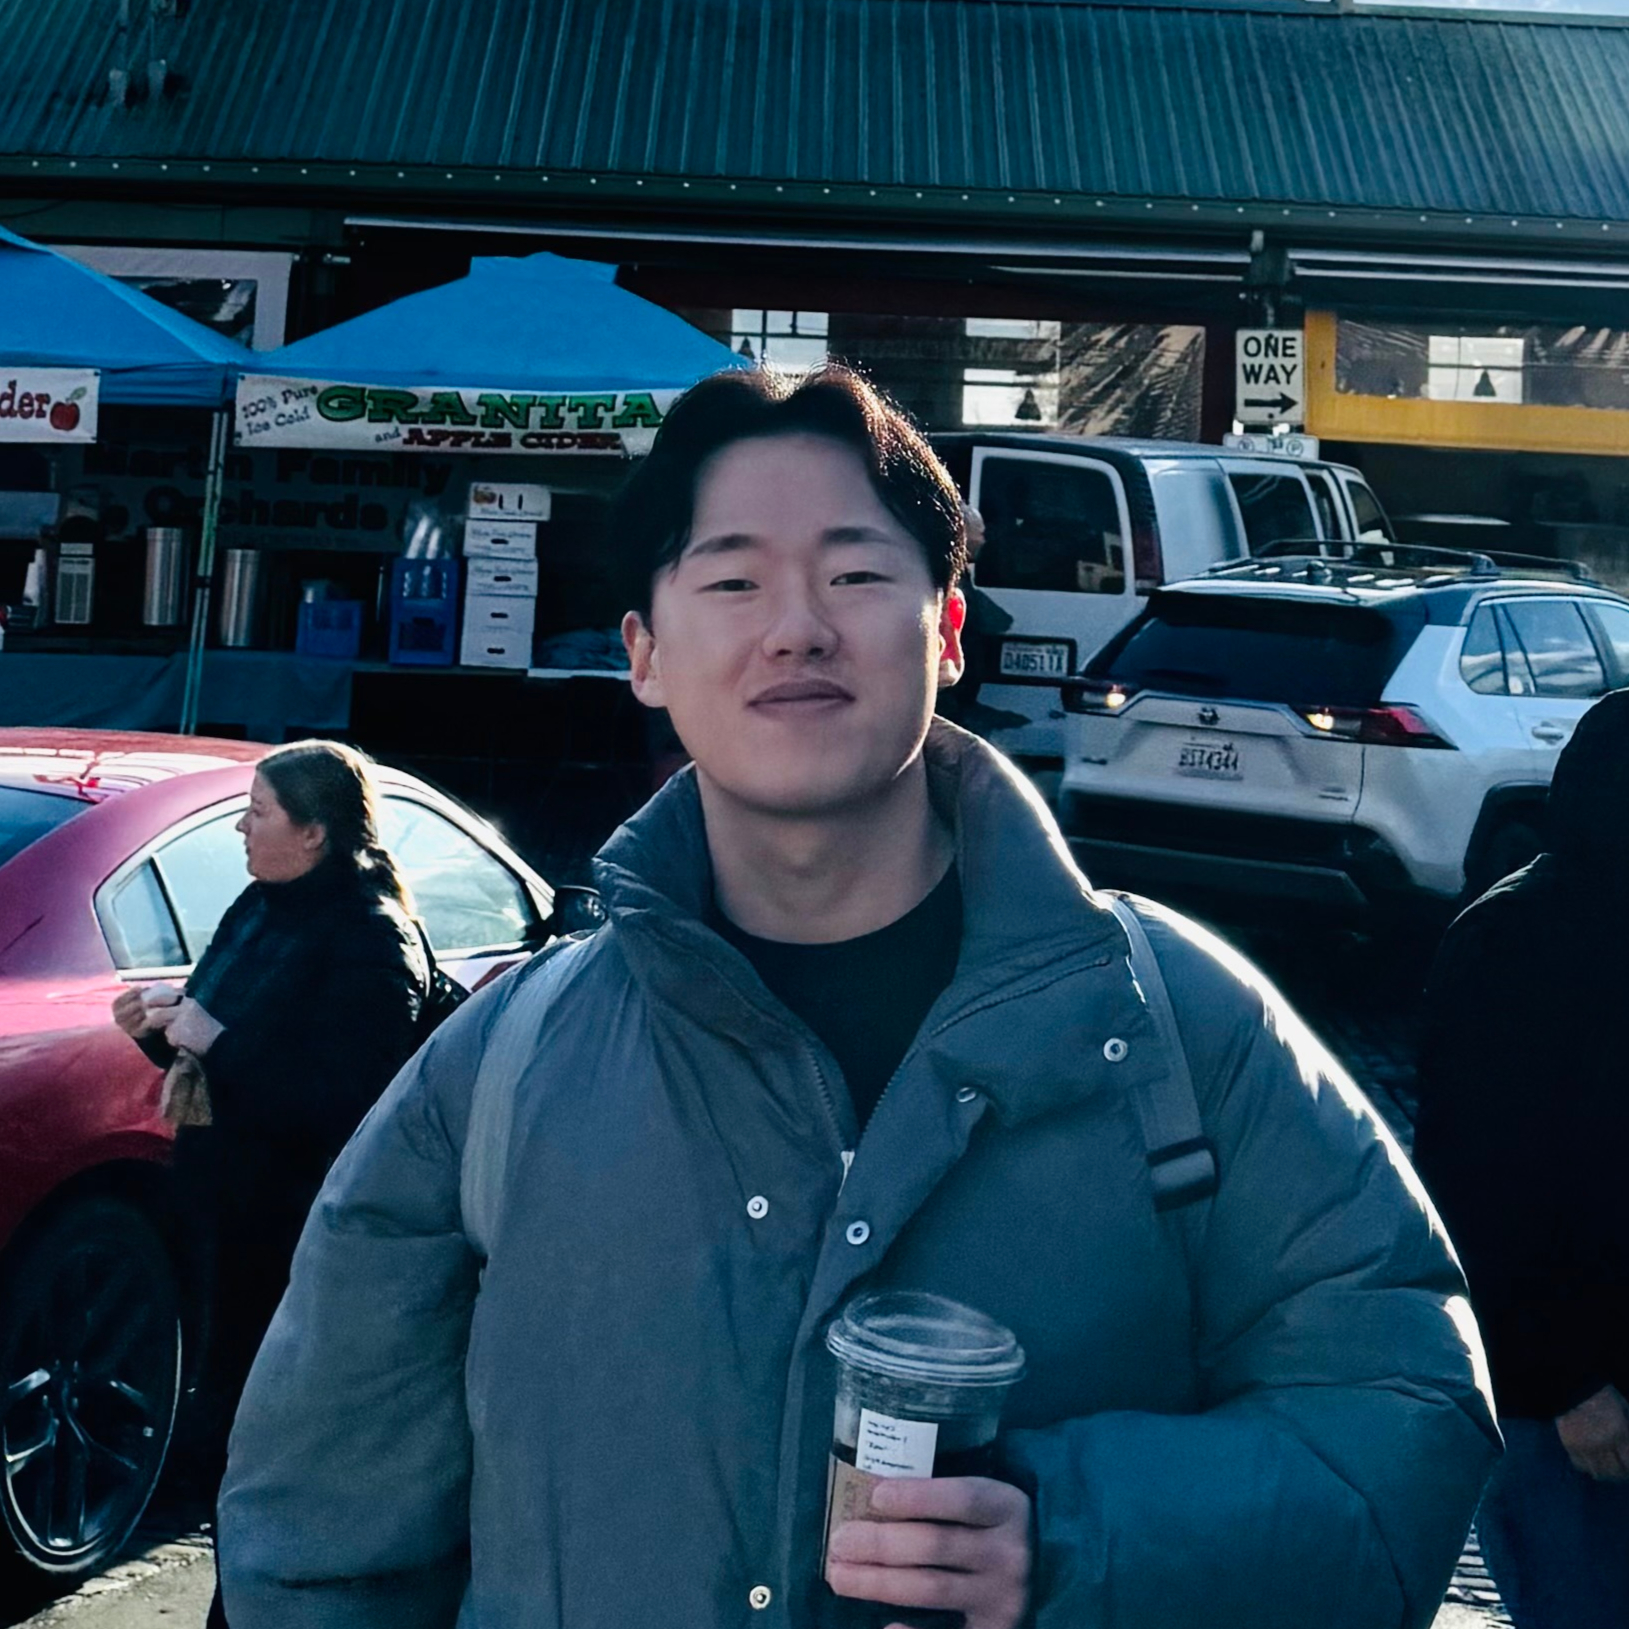
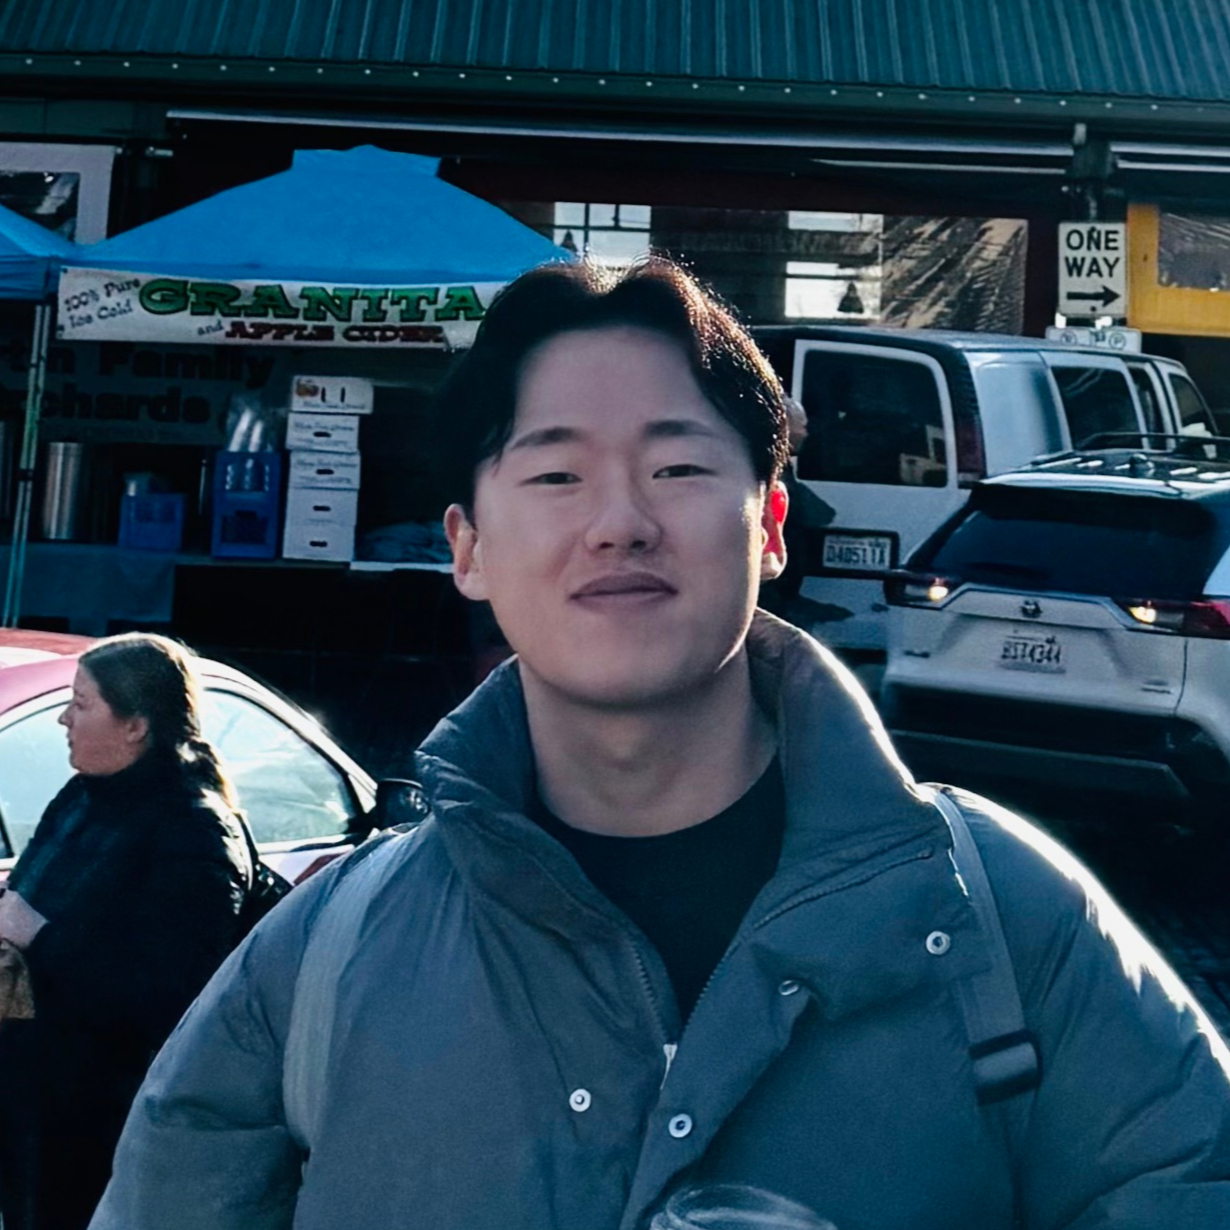
nav bar padding

diff --git a/_sass/_style.scss b/_sass/_style.scss
@@ -11,7 +11,7 @@ html {
 }
 body {
     margin: 0;
-    font-family: "Arial"; /* Inconsolata */
+    font-family: "Gill Sans"; /* Inconsolata */
     height: 100%;
     font-size: 15px;
 }
@@ -39,7 +39,7 @@ hr {
     display: inline-block;
 }
 .navbar {
-    padding: 50px 0 0px 0;
+    padding: 40px 0 0px 0;
 }
 .navbar-ul {
     display: inline-block;

diff --git a/index.md b/index.md
@@ -3,11 +3,11 @@ layout: default
 title: Sebin Jung
 ---
 
-# Hi there
+# Hi there,
 
 <img class="profile-picture" src="assets/seattle.jpeg">
 
-I’m a Master’s student in Mechanical Engineering at Carnegie Mellon University. I’m currently part of the [Intelligent Control Lab](http://icontrol.ri.cmu.edu/) at the Robotics Institute, where I’m fortunate to be advised by Prof. [Changliu Liu](https://scholar.google.com/citations?user=vvzAfOwAAAAJ&hl=en). Before coming to CMU, I earned my B.S. in Mechanical Engineering from Kyungpook National University in South Korea. During my undergraduate years, I worked on autonomous driving research in the [VOICE Lab](https://sites.google.com/view/voice-lab), advised by Prof. [Kyoungseok Han](https://scholar.google.com/citations?user=CEEipNoAAAAJ&hl=en&oi=ao).
+I’m a Master’s student in Mechanical Engineering at Carnegie Mellon University. I’m currently part of the [Intelligent Control Lab](http://icontrol.ri.cmu.edu/) and the [Driverless Intelligent Vehicle Lab](https://drive-lab-cmu.github.io/) at the Robotics Institute, where I’m fortunate to be advised by Prof. [Changliu Liu](https://scholar.google.com/citations?user=vvzAfOwAAAAJ&hl=en) and Prof. [John M. Dolan](https://scholar.google.com/citations?user=xLk_w7kAAAAJ&hl=en&oi=ao). Before coming to CMU, I earned my B.S. in Mechanical Engineering from Kyungpook National University in South Korea. During my undergraduate years, I worked on robot learning for autonomous driving research in the [VOICE Lab](https://sites.google.com/view/voice-lab), advised by Prof. [Kyoungseok Han](https://scholar.google.com/citations?user=CEEipNoAAAAJ&hl=en&oi=ao).
 
 
 # Interests
@@ -40,7 +40,7 @@ My work lies at the intersection of robot safety, machine learning, and optimal 
               Maitham F. AL-Sunni*, <strong>Sebin Jung*</strong>, Juan Alvarez-Padilla, Changliu Liu, John M. Dolan
             </span>
             <br>
-            <em>Scheduled submission for IEEE Robotics and Automation Letters (RA-L), 2025.</em>
+            <em>(* indicates equal contribution)<br>Submission scheduled for IEEE Robotics and Automation Letters (RA-L), 2025.</em>
             <br>
             <div>
               <!-- <a href="https://arxiv.org/pdf/2502.03132" class="btn btn-info"><strong>arXiv</strong></a> -->
@@ -51,7 +51,7 @@ My work lies at the intersection of robot safety, machine learning, and optimal 
         </div>
         <div class="project-desc-center">
           <p class="project-summary">
-            Coming Soon.
+            Project description to be revealed soon.
           </p>
         </div>
       </div>
